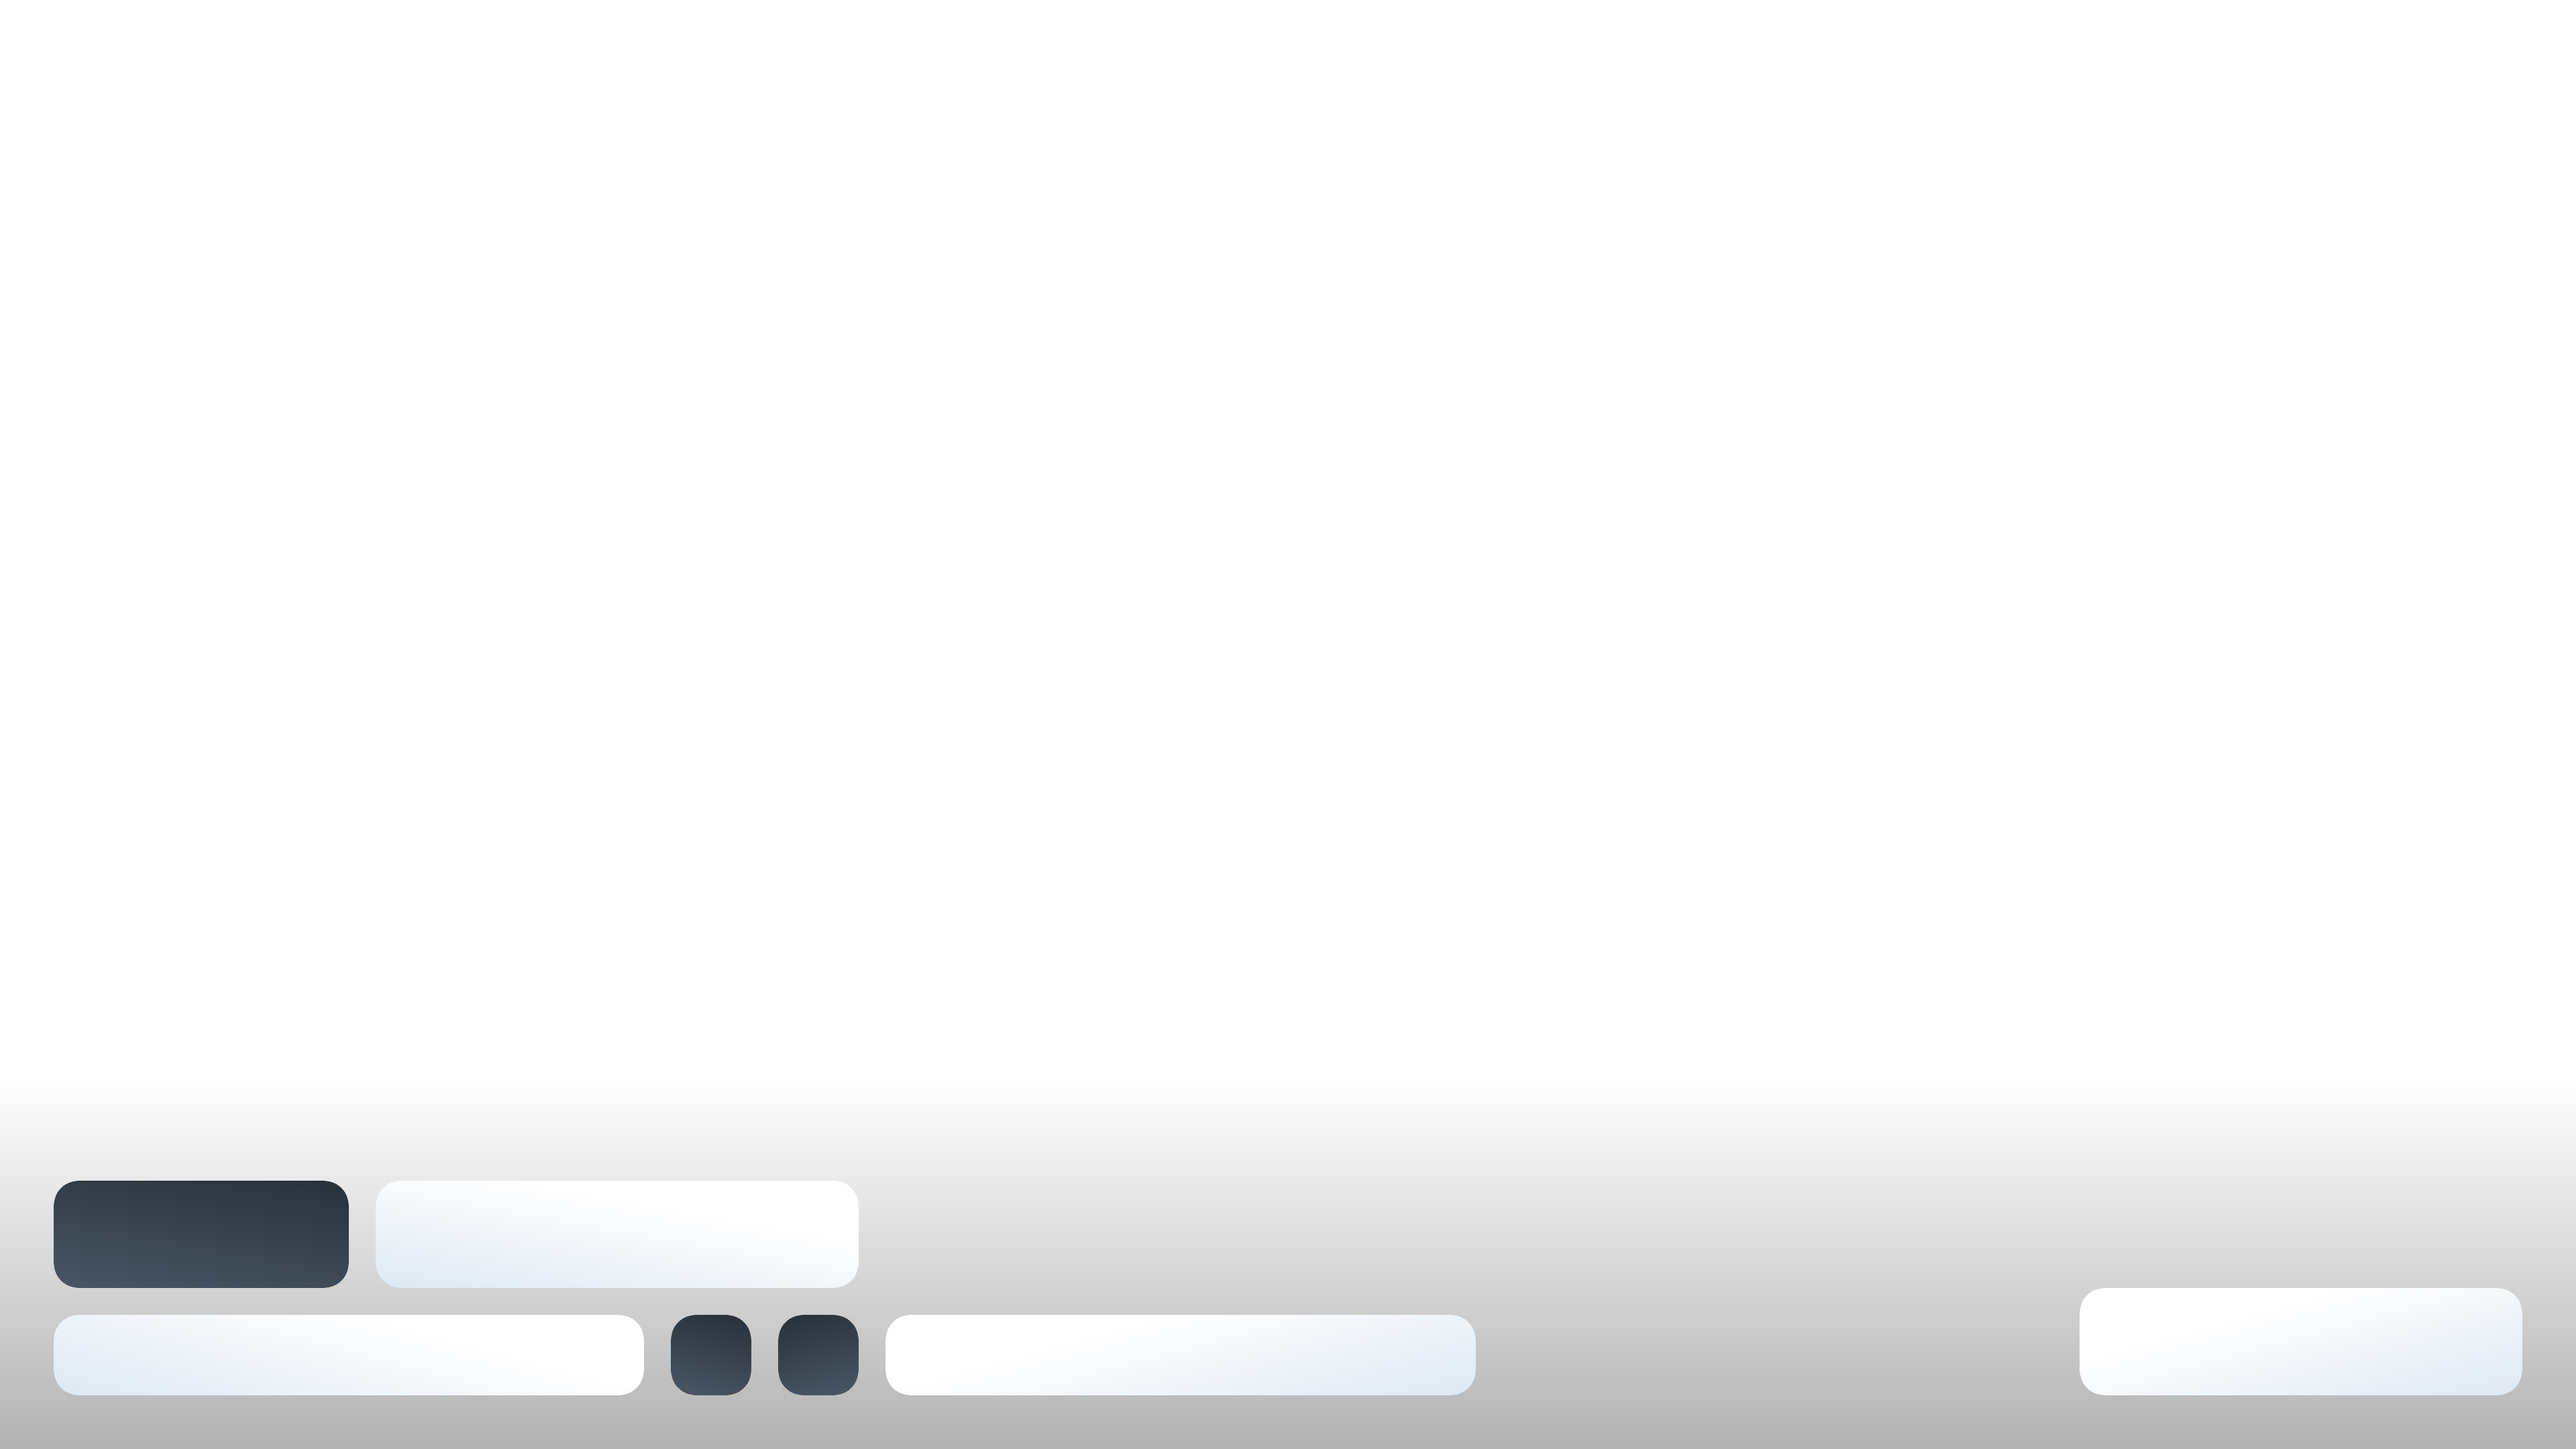
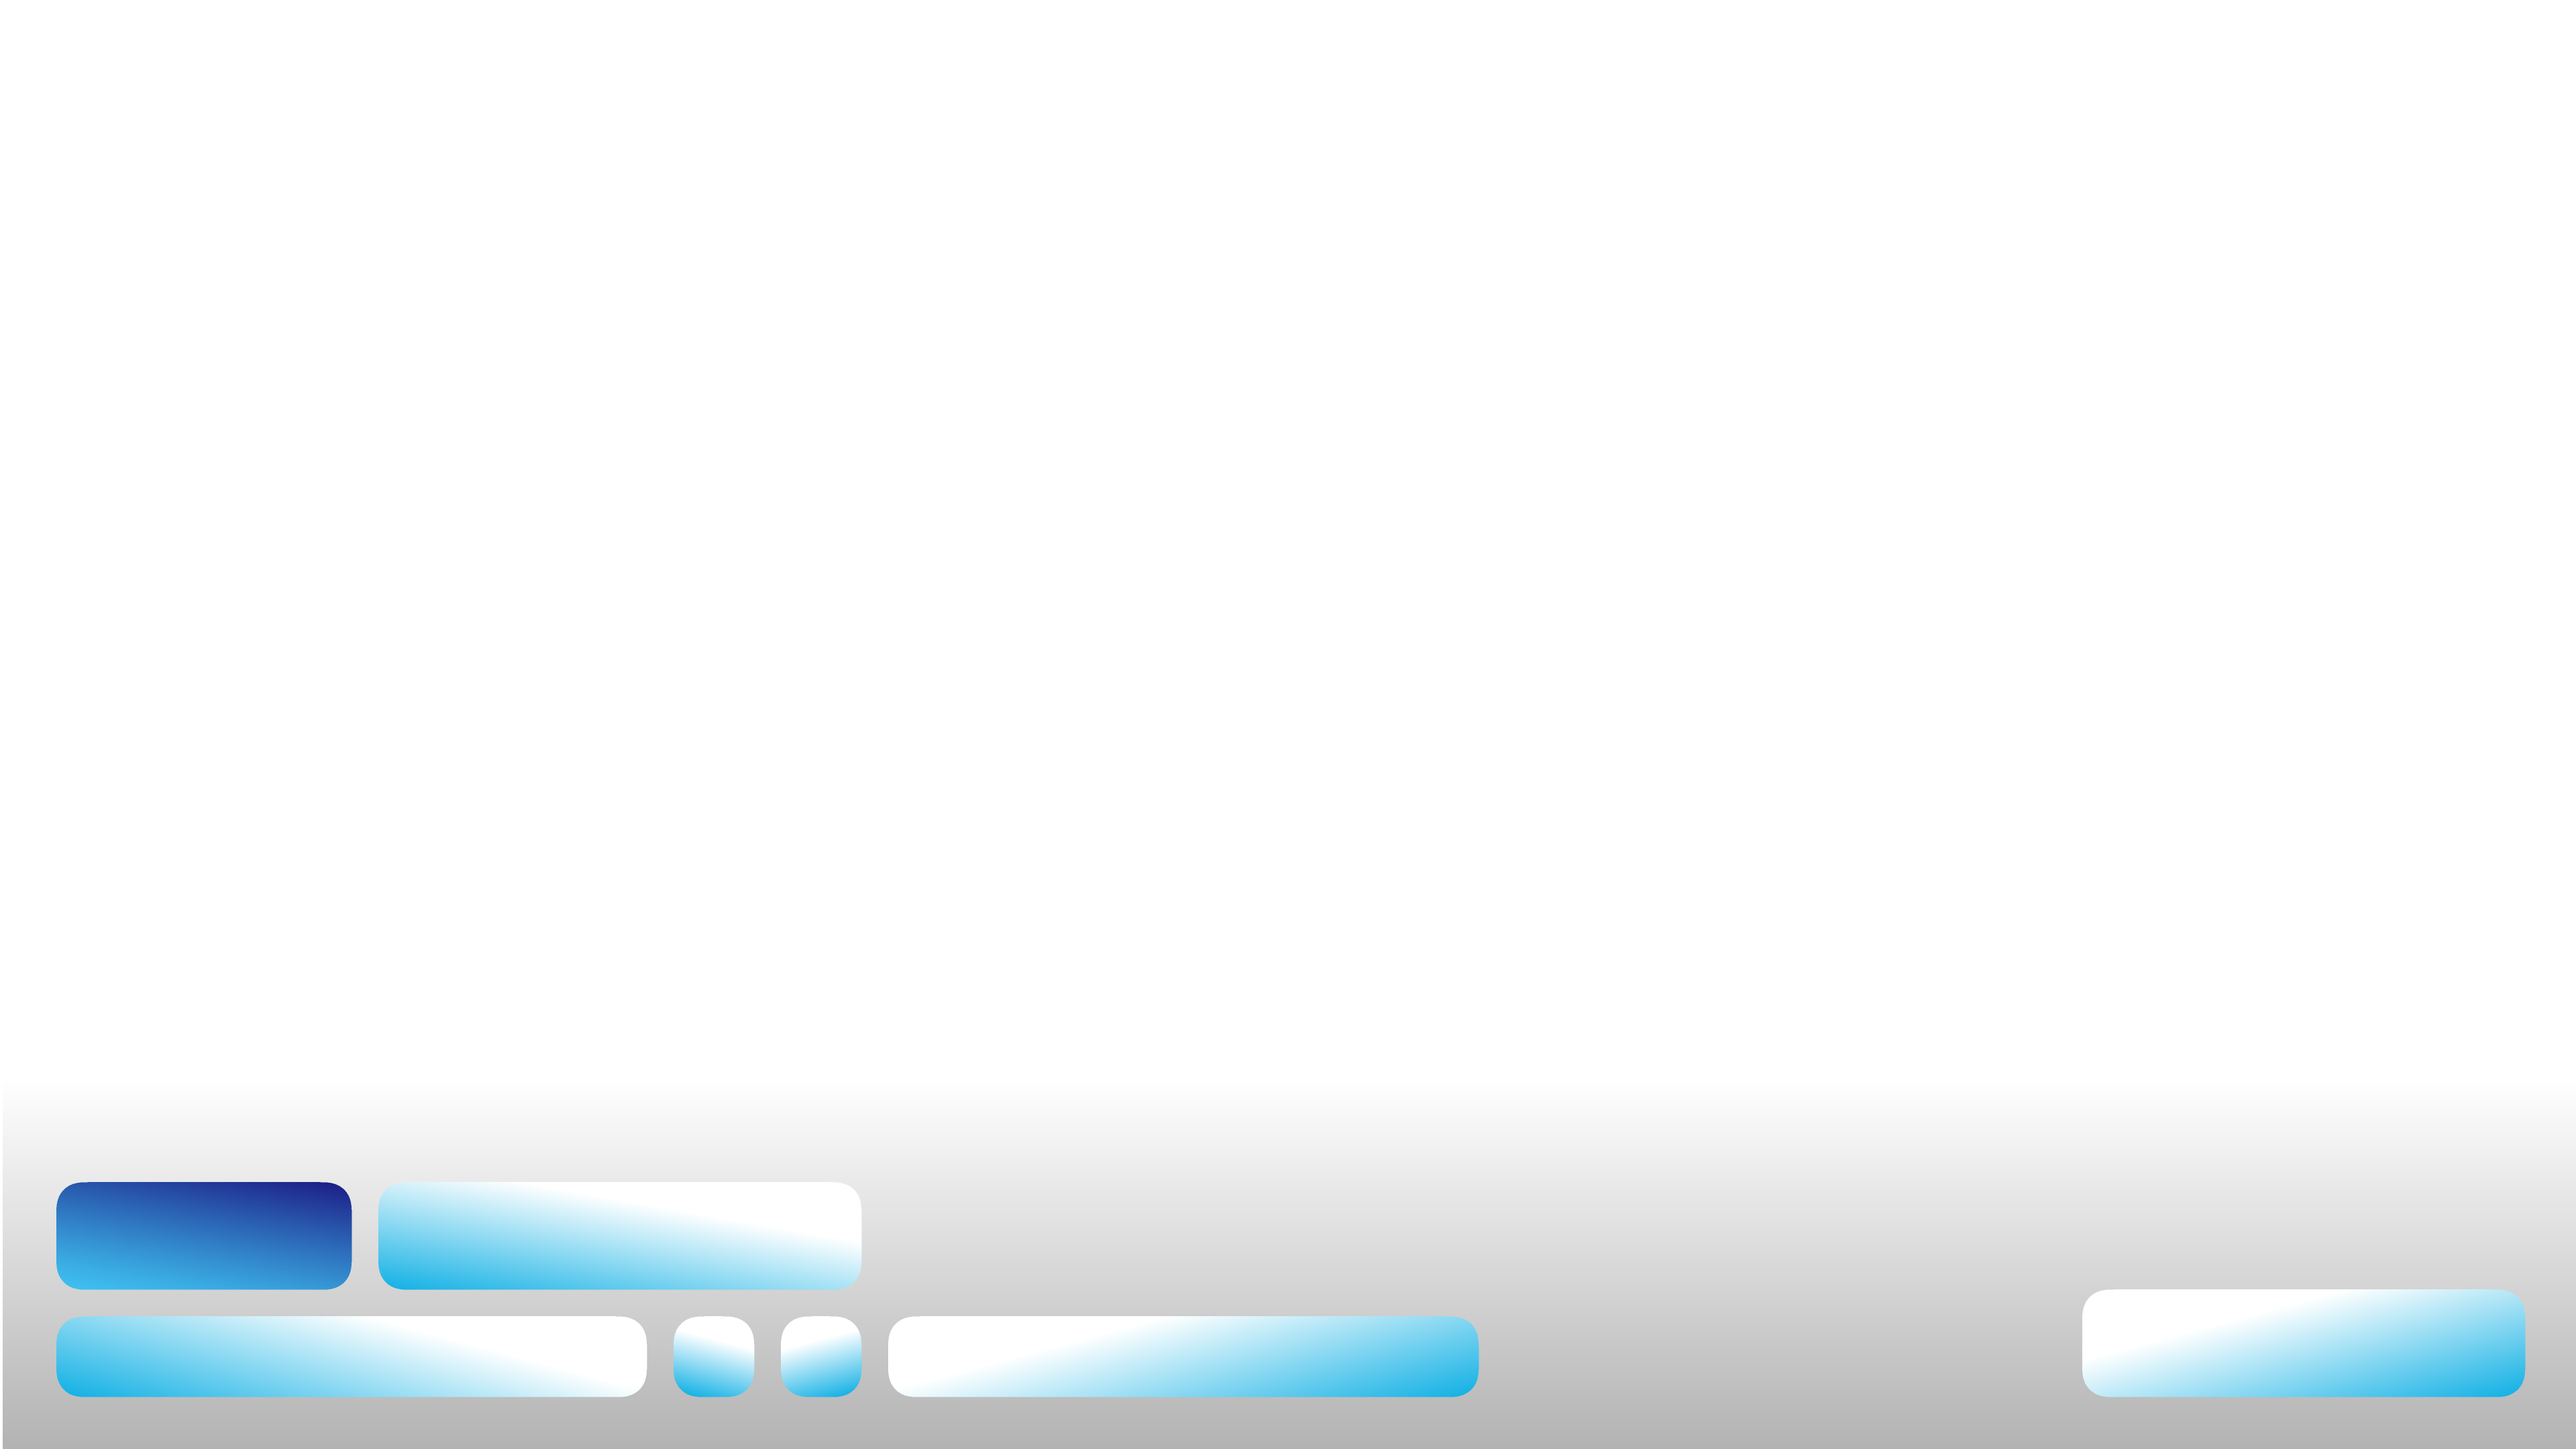
add itosuma custome

Changed region(s): [[0.0, 0.8065, 0.3438, 0.9616], [0.8125, 0.8685, 1.0, 0.9616], [0.375, 0.8995, 0.5938, 0.9616]]

diff --git a/components/obs/score/Solid.scss b/components/obs/score/Solid.scss
@@ -4,11 +4,10 @@
 @mixin status {
   @include blackWeight;
 
-  width: 240px;
+  width: 200px;
   margin: 0;
-  font-size: 19px;
-  font-style: italic;
-  line-height: 21px;
+  font-size: 21px;
+  line-height: 23px;
   color: var(--status-color);
   text-align: center;
   letter-spacing: 1px;
@@ -80,12 +79,12 @@
 
   .box {
     position: absolute;
-    top: 44px;
-    left: 840px;
+    top: 26px;
+    left: 860px;
     display: flex;
     flex-direction: column;
     justify-content: center;
-    width: 240px;
+    width: 200px;
     height: 60px;
   }
 
@@ -96,6 +95,8 @@
 
   .matchType {
     @include status;
+
+    margin-top: 23px;
   }
 
   .cameraRight,

diff --git a/components/obs/next/normal.scss b/components/obs/next/normal.scss
@@ -48,7 +48,7 @@
     width: 60px;
     margin: 0;
     font-size: 40px;
-    color: var(--main-color);
+    color: var(--sub-color);
     text-align: center;
 
     &.p1 {
